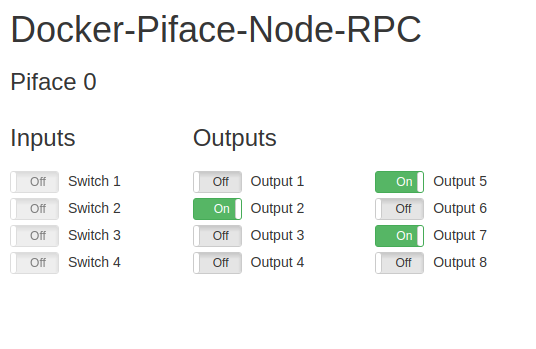
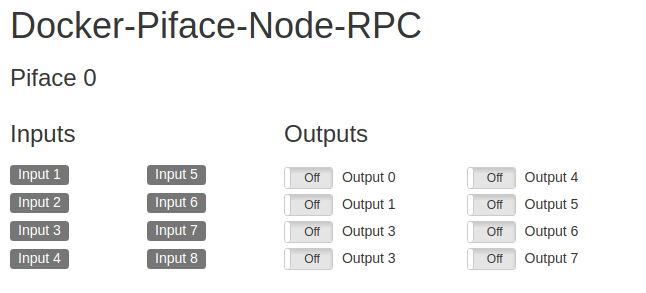
There are 8 input on piface, update web view screenshot

diff --git a/public_html/index.html b/public_html/index.html
@@ -14,14 +14,20 @@
                     <h1>Docker-Piface-Node-RPC <span id="error" class="label label-danger hidden">Offline</span></h1>
                     <h3>Piface 0</h3>
                     <div class="row">
-                        <div class="col-md-2">
+                        <div class="col-md-3">
                             <h3>Inputs</h3>
                             <div class="row">
-                                <div class="col-md-12 input">
-                                    <div class="label label-default" style="display: table; font-size: 100%; font-weight: 1;margin-top: 8px;" id="input01">Button 1</div>
-                                    <div class="label label-default" style="display: table; font-size: 100%; font-weight: 1;margin-top: 8px;" id="input02">Button 2</div>
-                                    <div class="label label-default" style="display: table; font-size: 100%; font-weight: 1;margin-top: 8px;" id="input03">Button 3</div>
-                                    <div class="label label-default" style="display: table; font-size: 100%; font-weight: 1;margin-top: 8px;" id="input04">Button 4</div>
+                                <div class="col-md-6 input">
+                                    <div class="label label-default" style="display: table; font-size: 100%; font-weight: 1;margin-top: 8px;" id="input01">Input 1</div>
+                                    <div class="label label-default" style="display: table; font-size: 100%; font-weight: 1;margin-top: 8px;" id="input02">Input 2</div>
+                                    <div class="label label-default" style="display: table; font-size: 100%; font-weight: 1;margin-top: 8px;" id="input03">Input 3</div>
+                                    <div class="label label-default" style="display: table; font-size: 100%; font-weight: 1;margin-top: 8px;" id="input04">Input 4</div>
+                                </div>
+                                <div class="col-md-6 input">
+                                    <div class="label label-default" style="display: table; font-size: 100%; font-weight: 1;margin-top: 8px;" id="input05">Input 5</div>
+                                    <div class="label label-default" style="display: table; font-size: 100%; font-weight: 1;margin-top: 8px;" id="input06">Input 6</div>
+                                    <div class="label label-default" style="display: table; font-size: 100%; font-weight: 1;margin-top: 8px;" id="input07">Input 7</div>
+                                    <div class="label label-default" style="display: table; font-size: 100%; font-weight: 1;margin-top: 8px;" id="input08">Input 8</div>
                                 </div>
                             </div>
                         </div>

diff --git a/server/server.js b/server/server.js
@@ -50,7 +50,7 @@ app.get('/api/v1/input/get', (req, res) => {
     var data = [];
     for (var i = 0; i < pifaces.length; i++) {
         var input = [];
-        for (var j = 1; j <= 4; j++) {
+        for (var j = 1; j <= 8; j++) {
             var state = (pifaces[i].getInput() & j) === 0;
             input[j] = state;
         }
@@ -99,7 +99,7 @@ function dec2bin(dec) {
 //
 //    var input = pifacedigital.getInput();
 //    console.log("Input state all " + dec2bin(input));
-//    for (var i = 1; i <= 4; i++) {
+//    for (var i = 1; i <= 8; i++) {
 //        var state = (pifacedigital.getInput() & i) == 0;
 //        console.log("Input state " + i + " " + state);
 //    }
